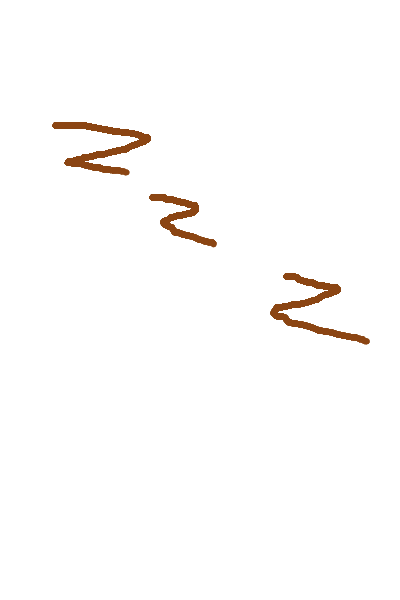
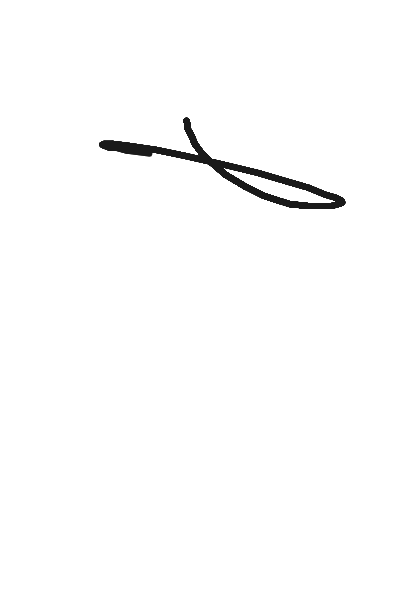
thong bao

Changed region(s): [[0.12, 0.18, 0.87, 0.36], [0.66, 0.45, 0.93, 0.57], [0.36, 0.3, 0.54, 0.42]]

diff --git a/src/main/resources/templates/mangaka.html b/src/main/resources/templates/mangaka.html
@@ -411,6 +411,9 @@
                     <button type="button" id="btnModalDownload">
                       <span>Download file</span>
                     </button>
+                    <button type="button" id="btnConfirmEdit">
+                      <span>Lưu bản vẽ</span>
+                    </button>
                   </div>
 
                   <div class="draw-modal-divider"></div>
@@ -418,10 +421,6 @@
                   <div class="actions-wrapper compact-draw-footer">
                     <button type="button" onclick="closeEditSubmissionModal()" class="btn-cancel">
                       Quay lại
-                    </button>
-
-                    <button type="button" id="btnConfirmEdit" class="btn-confirm">
-                      Lưu bản vẽ
                     </button>
                   </div>
                 </div>
@@ -2247,25 +2246,51 @@
         .catch((err) => alert("Lỗi: " + err.message));
     }
 
-    function deletePage(sid, cid, pageId) {
-      if (!confirm("Xác nhận xóa trang này? Hành động không thể hoàn tác."))
-        return;
-      fetch(`/manga/mangaka/myseries/${sid}/${cid}/${pageId}/delete-page`, {
-        method: "POST",
-      })
-        .then((r) => r.json())
-        .then((data) => {
-          if (data.status === "success") {
-            alert(data.message);
-            closePageActionModal();
-            loadChapterView(sid, cid);
+    async function deletePage(sid, cid, pageId) {
+      const confirmMessage =
+        "X\u00e1c nh\u1eadn x\u00f3a trang n\u00e0y? H\u00e0nh \u0111\u1ed9ng kh\u00f4ng th\u1ec3 ho\u00e0n t\u00e1c.";
+      const confirmed = window.showUiConfirm
+        ? await window.showUiConfirm(confirmMessage, {
+            title: "X\u00f3a trang",
+            okText: "X\u00f3a trang",
+            cancelText: "H\u1ee7y",
+          })
+        : window.confirm(confirmMessage);
+
+      if (!confirmed) return;
+
+      try {
+        const response = await fetch(
+          `/manga/mangaka/myseries/${sid}/${cid}/${pageId}/delete-page`,
+          { method: "POST" },
+        );
+        const data = await response.json();
+        const message = data.message || "\u0110\u00e3 x\u1eed l\u00fd y\u00eau c\u1ea7u x\u00f3a trang.";
+
+        if (data.status === "success") {
+          if (window.showUiAlertAsync) {
+            await window.showUiAlertAsync(message);
           } else {
-            // Message giờ đã cụ thể theo từng lý do backend trả về
-            // (VD: "Trang này đang được giao cho trợ lý...", "Chapter đã xuất bản...")
-            alert(data.message);
+            alert(message);
           }
-        })
-        .catch((err) => alert("Lỗi: " + err.message));
+          closePageActionModal();
+          loadChapterView(sid, cid);
+          return;
+        }
+
+        if (window.showUiAlertAsync) {
+          await window.showUiAlertAsync(message);
+        } else {
+          alert(message);
+        }
+      } catch (err) {
+        const message = "L\u1ed7i: " + err.message;
+        if (window.showUiAlertAsync) {
+          await window.showUiAlertAsync(message);
+        } else {
+          alert(message);
+        }
+      }
     }
 
     function approvePageDone(pageId) {

diff --git a/src/main/resources/static/css/draw.css b/src/main/resources/static/css/draw.css
@@ -537,6 +537,21 @@
   justify-content: center;
 }
 
+.draw-hidden-action,
+#inputLoadPage {
+  display: none !important;
+}
+
+.submission-update-panel {
+  order: 3;
+}
+
+.submission-update-panel #btnEditSubmission {
+  width: 100%;
+  margin-bottom: 0;
+  justify-content: center;
+}
+
 #editSubmissionModal {
   position: fixed;
   inset: 0;
@@ -555,11 +570,8 @@
   overflow: auto;
   border: 1px solid rgba(231, 189, 104, 0.22);
   border-radius: 18px;
-  background: radial-gradient(
-      circle at top left,
-      rgba(239, 59, 54, 0.12),
-      transparent 36%
-    ),
+  background:
+    radial-gradient(circle at top left, rgba(239, 59, 54, 0.12), transparent 36%),
     linear-gradient(180deg, rgba(30, 35, 47, 0.98), rgba(15, 18, 26, 0.98));
   box-shadow:
     0 30px 90px rgba(0, 0, 0, 0.56),
@@ -665,6 +677,32 @@
 
 #editSubmissionModal .actions-wrapper > * {
   flex: 1;
+}
+
+@keyframes draw-modal-in {
+  from {
+    opacity: 0;
+    transform: translateY(10px) scale(0.985);
+  }
+
+  to {
+    opacity: 1;
+    transform: translateY(0) scale(1);
+  }
+}
+
+@media (max-width: 680px) {
+  .draw-action-grid {
+    grid-template-columns: 1fr;
+  }
+}
+
+@media (prefers-reduced-motion: reduce) {
+  #editSubmissionModal .modal-content-box,
+  .draw-action-grid button {
+    animation: none;
+    transition: none;
+  }
 }
 
 @keyframes draw-modal-in {

diff --git a/src/main/resources/static/js/draw.js b/src/main/resources/static/js/draw.js
@@ -1573,7 +1573,15 @@ if (btnSubmitSubmission) {
 
   actionButton?.addEventListener("click", openActionModal);
 
-  btnModalLoadPage?.addEventListener("click", () => btnLoadPageLegacy?.click());
+  btnModalLoadPage?.addEventListener("click", () => {
+    const input = document.getElementById("inputLoadPage");
+    if (input) {
+      input.value = "";
+      input.click();
+      return;
+    }
+    btnLoadPageLegacy?.click();
+  });
   btnModalDownload?.addEventListener("click", () => btnDownloadLegacy?.click());
   btnModalSaveArtwork?.addEventListener("click", async (e) => {
     const saved = await saveArtwork(e.currentTarget, { redirect: false });

diff --git a/src/main/resources/static/css/all.css b/src/main/resources/static/css/all.css
@@ -3810,3 +3810,10 @@ body:not(:has(.topnav)) .app-floating-modal {
   cursor: not-allowed;
   background: #555 !important;
 }
+
+
+/* Keep global alerts above nested page action modals */
+#uiAlertOverlay,
+#uiConfirmOverlay {
+  z-index: 9000 !important;
+}